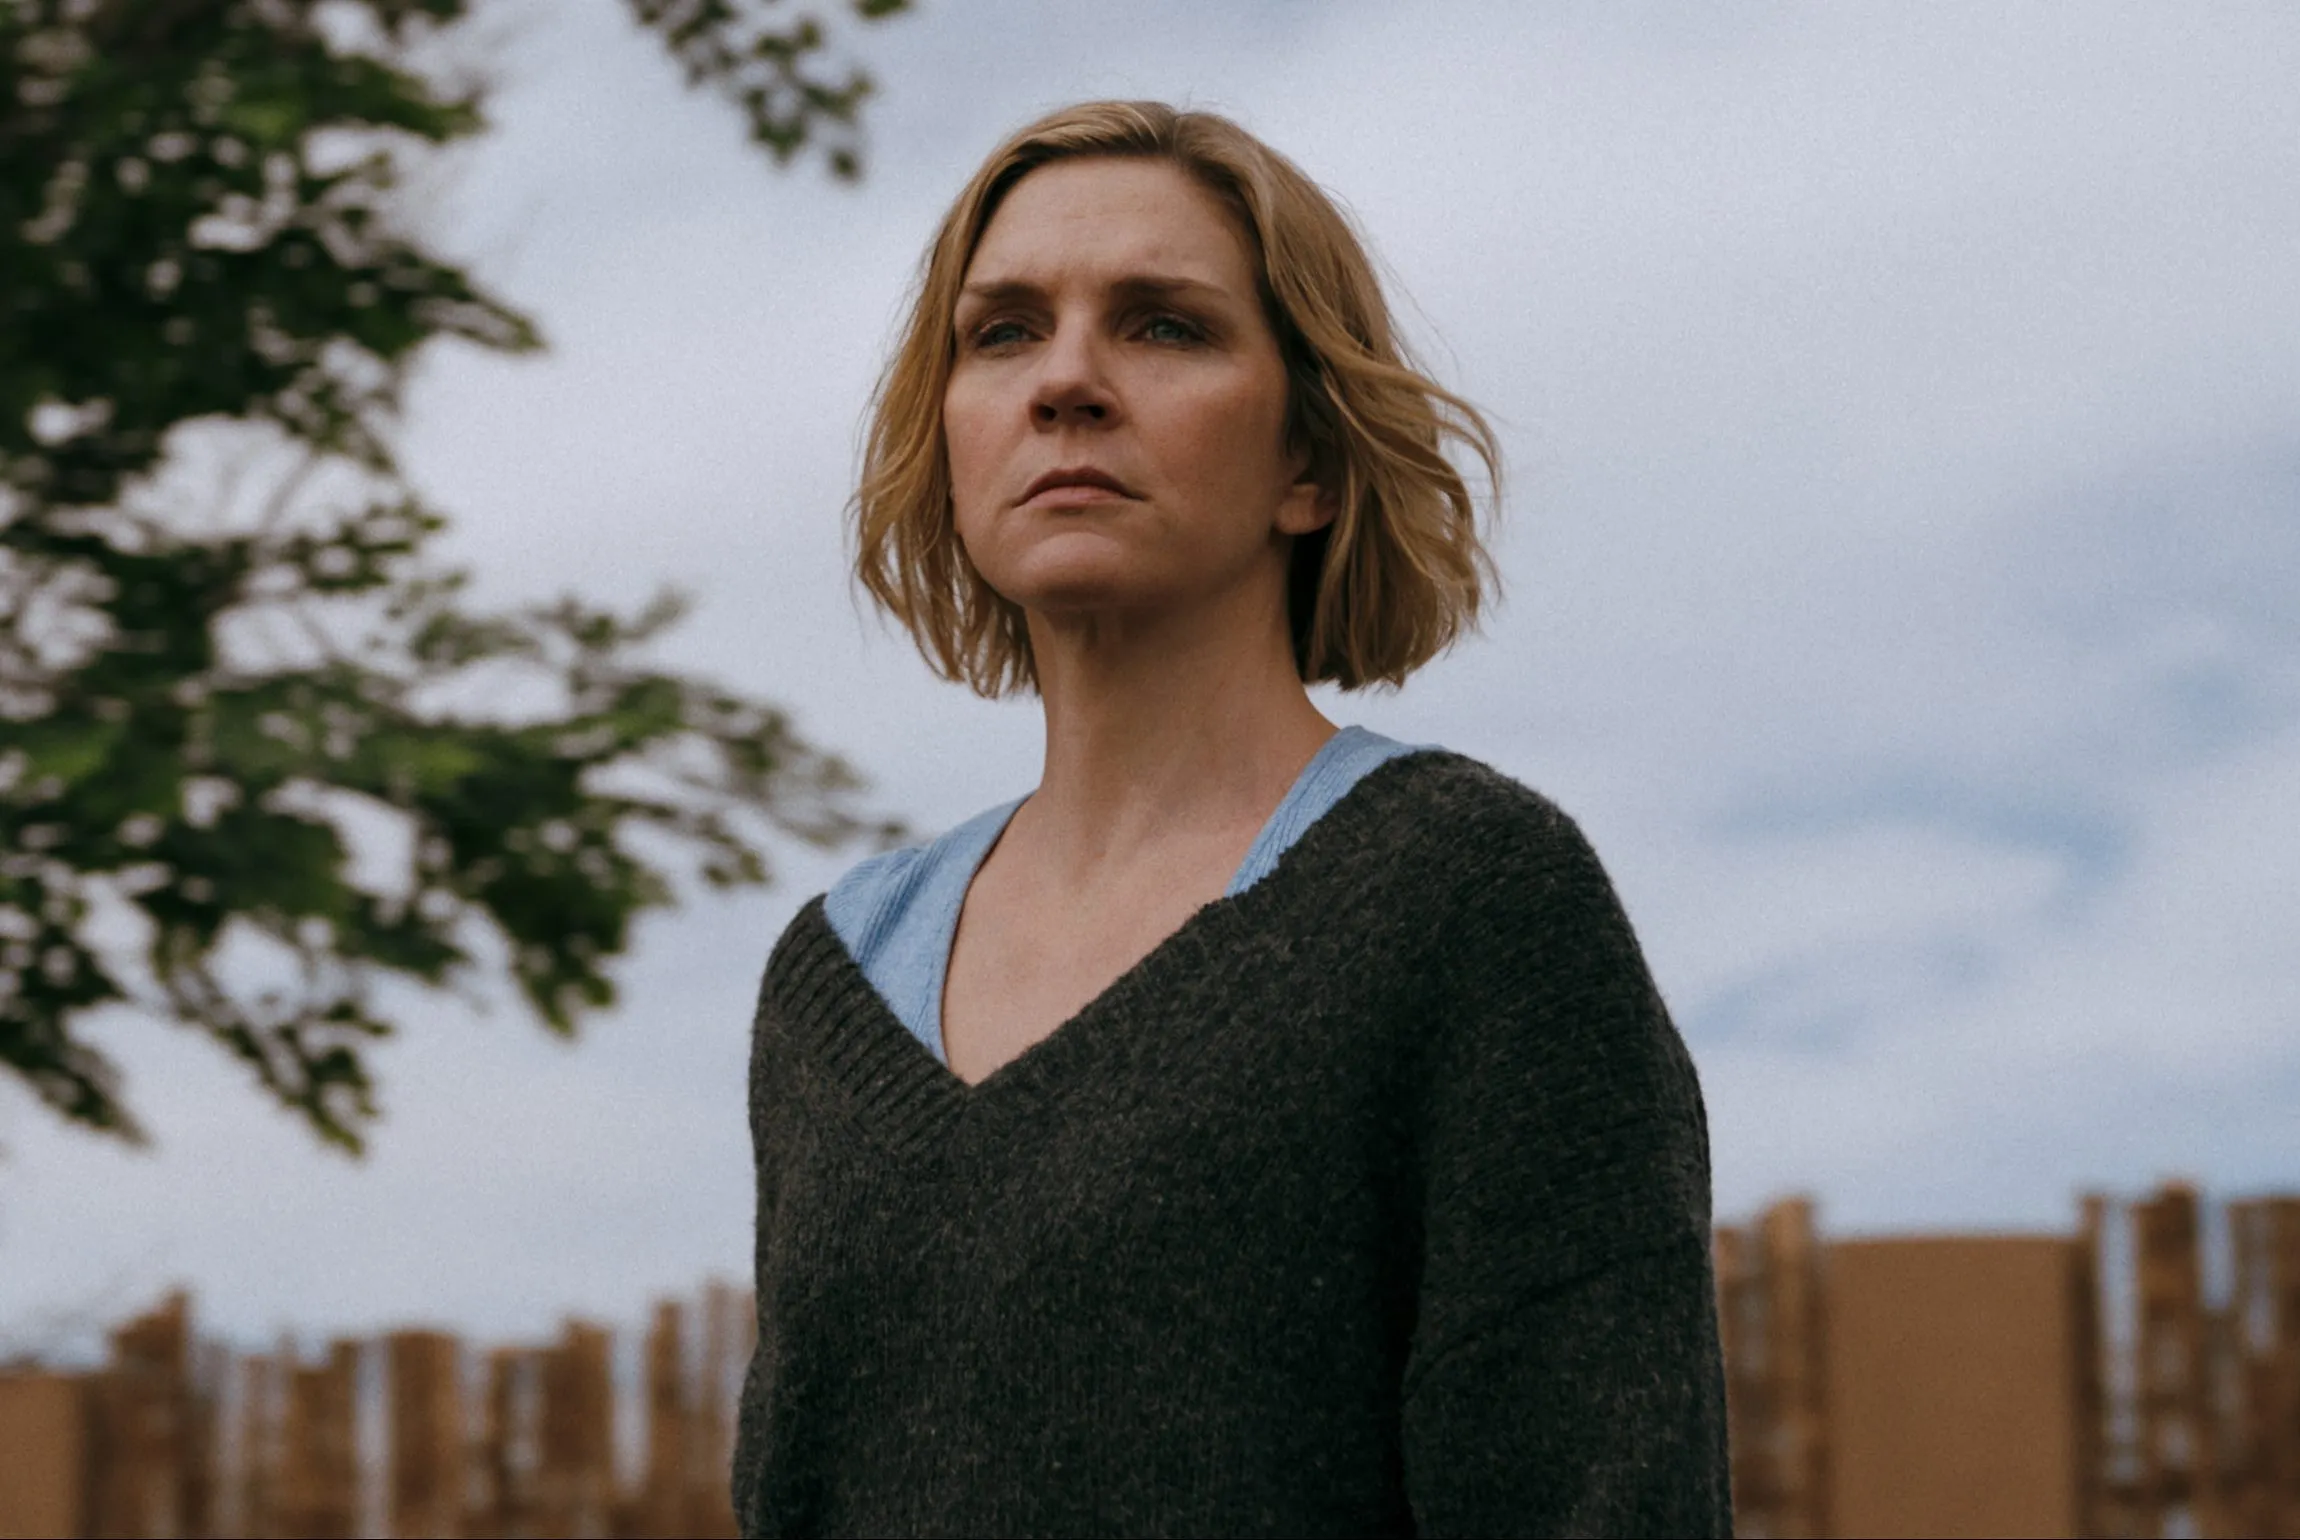
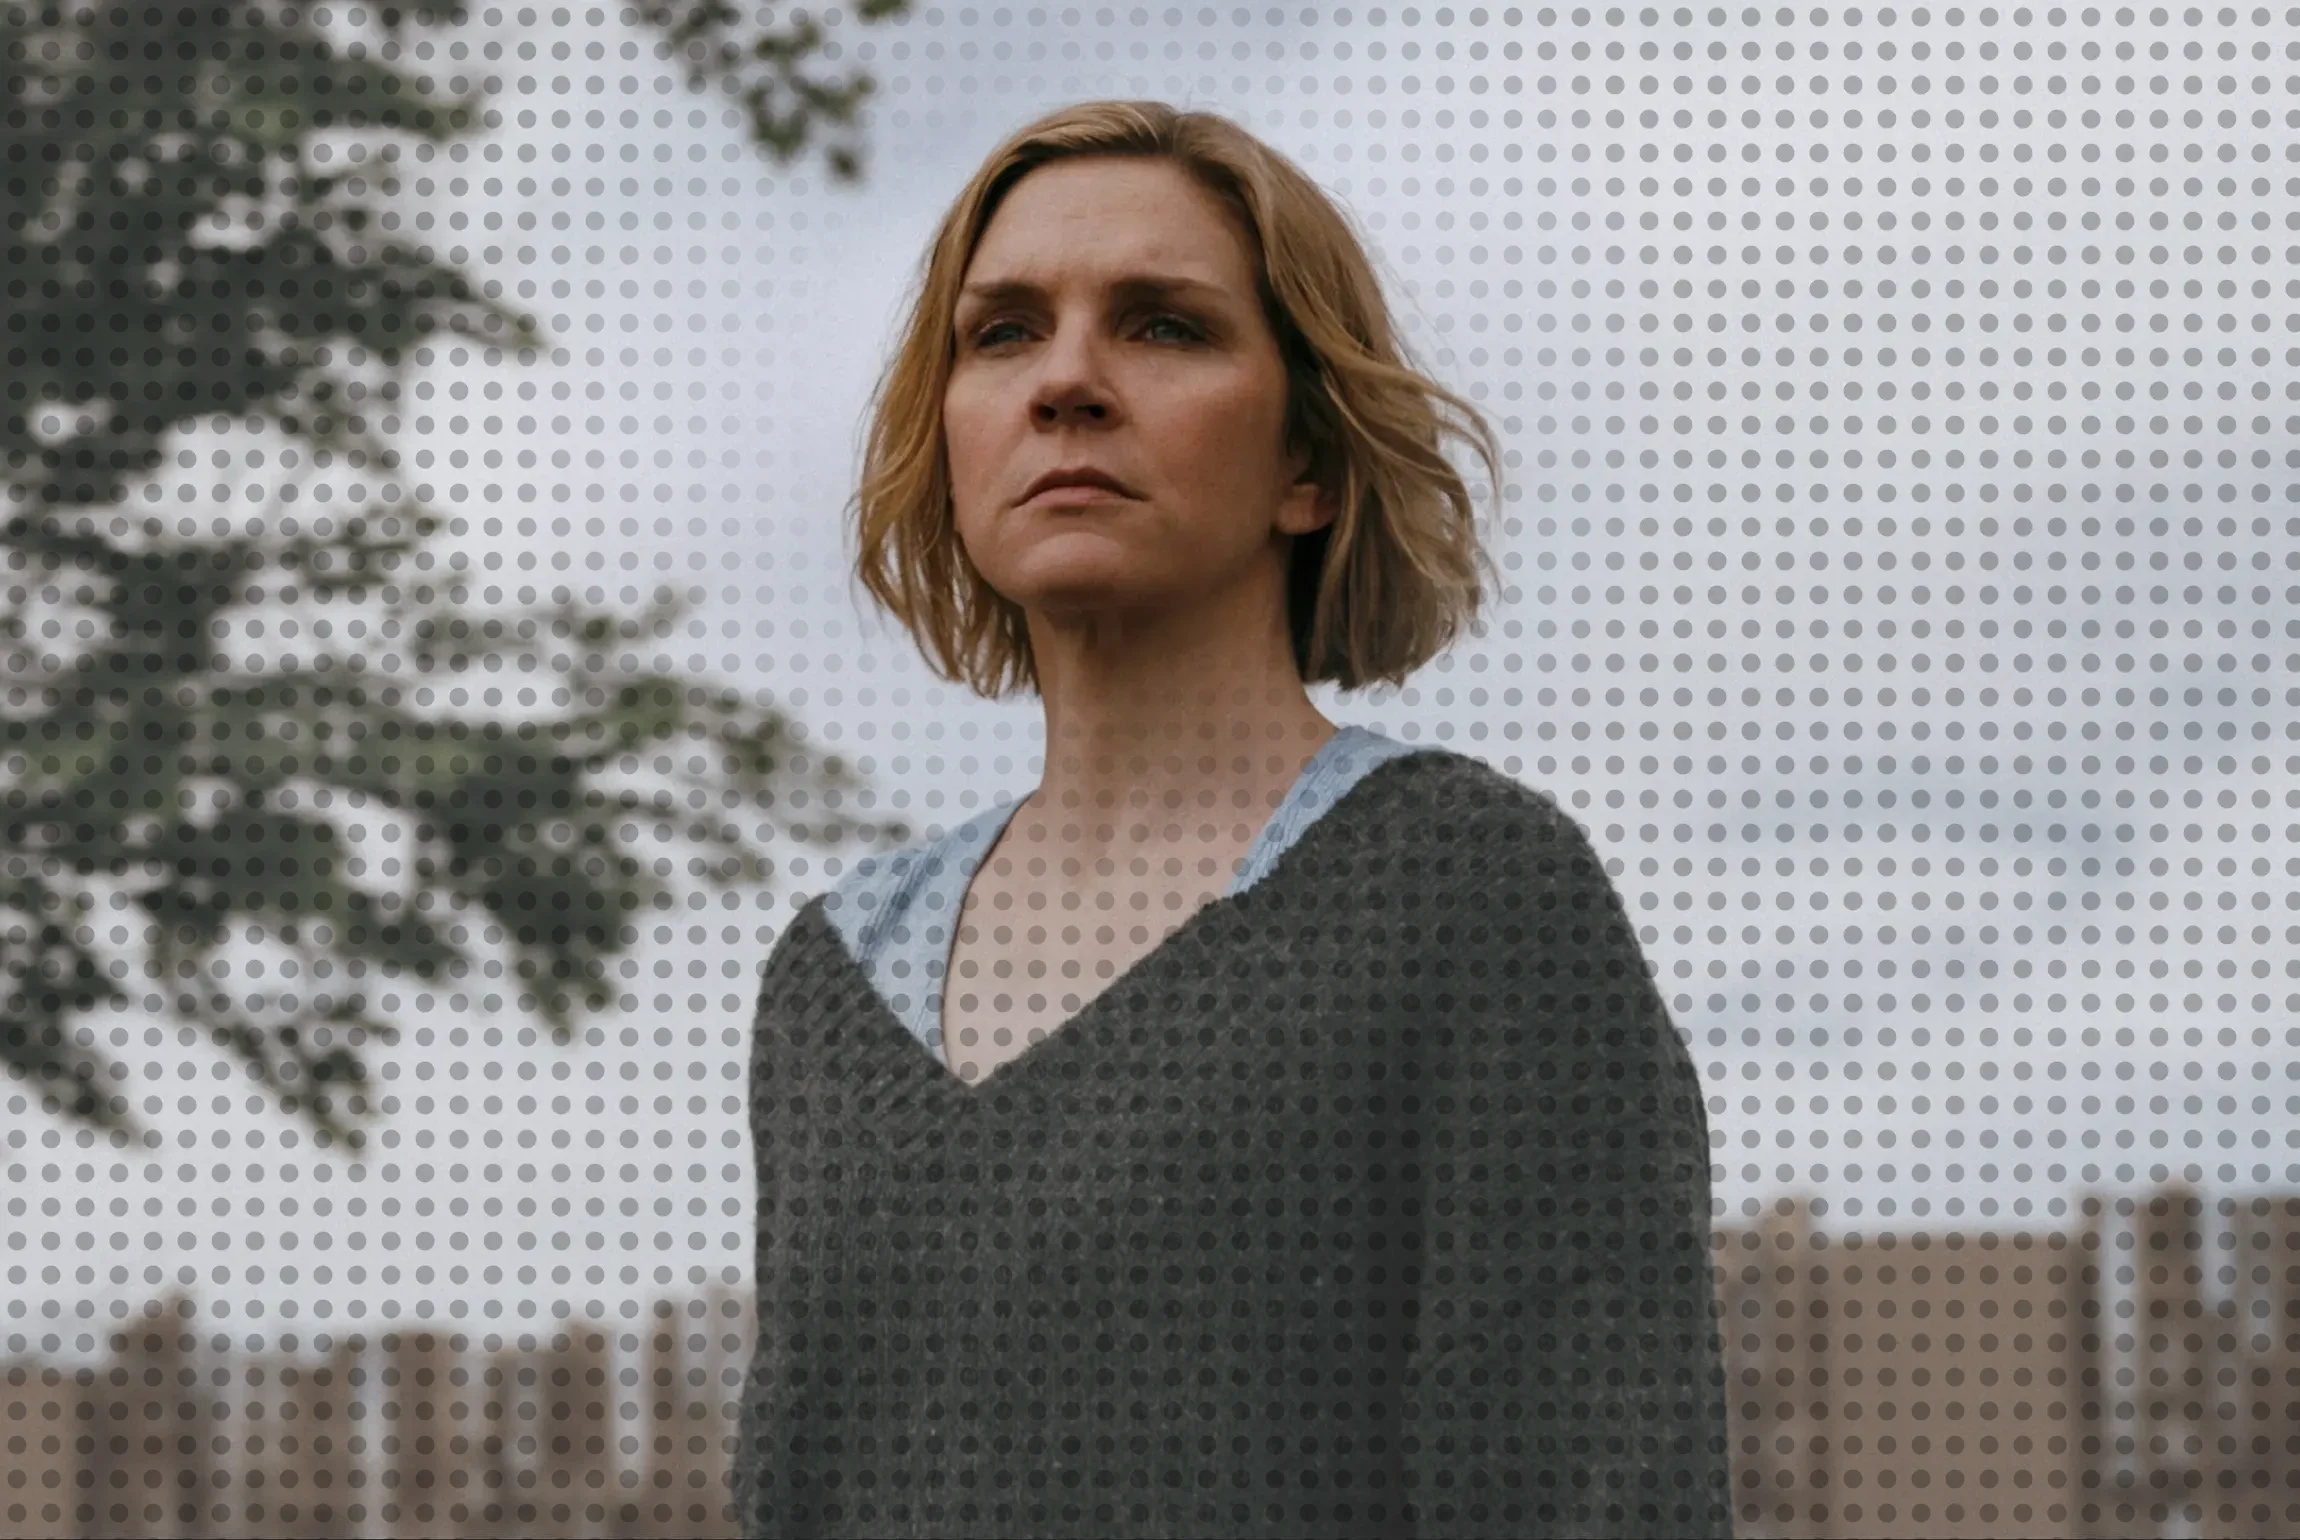
Recrop faces, add halftone magazine treatment, redesign hover state
Sam Nivola and Kevin O'Leary tiles are recropped to squares centered on
their faces. The Pluribus, Kevin O'Leary, and Kanye photos get a print-
style treatment: background desaturated, lightened, and overlaid with a
halftone dot pattern while a radial mask keeps the face untouched.

Tile hover redesigned to match the theme: the headline now appears as
tilted yellow highlighter strips (blue type, each wrapped line its own
strip) with a dashed cyan "click to read" Courier chip, and the overlay
zooms in slightly on reveal.

diff --git a/src/css/style.css b/src/css/style.css
@@ -216,7 +216,7 @@ a {
 }
 
 .article-card:hover .article-thumb {
-  opacity: 0.22;
+  opacity: 0.4;
 }
 
 .article-overlay {
@@ -227,23 +227,48 @@ a {
   align-items: center;
   justify-content: center;
   text-align: center;
-  padding: 1.1rem;
+  padding: 0.9rem;
+  overflow: hidden;
   opacity: 0;
-  transition: opacity 0.25s ease;
+  transform: scale(1.06);
+  transition: opacity 0.22s ease, transform 0.22s ease;
 }
 
 .article-card:hover .article-overlay {
   opacity: 1;
+  transform: scale(1);
+}
+
+.article-title-wrap {
+  display: block;
+  transform: rotate(-2.5deg);
 }
 
 .article-title {
+  display: inline;
+  background: var(--yellow);
+  color: var(--blue);
+  box-decoration-break: clone;
+  -webkit-box-decoration-break: clone;
+  padding: 3px 9px;
   font-size: 0.72rem;
   font-weight: bold;
-  line-height: 1.45;
-  display: -webkit-box;
-  -webkit-line-clamp: 9;
-  -webkit-box-orient: vertical;
-  overflow: hidden;
+  line-height: 2.1;
+}
+
+.article-cta {
+  margin-top: 16px;
+  display: inline-block;
+  font-family: "Courier New", monospace;
+  font-size: 11px;
+  font-weight: bold;
+  letter-spacing: 1.5px;
+  text-transform: uppercase;
+  color: var(--cyan);
+  background: var(--black);
+  border: 2px dashed var(--cyan);
+  padding: 4px 12px;
+  transform: rotate(1.5deg);
 }
 
 /* ---- cover story sticker ---- */

diff --git a/src/index.md b/src/index.md
@@ -18,7 +18,8 @@ title: Home
   <a class="article-card" href="{{ article.data.url }}" target="_blank" rel="noopener">
     <img src="{{ article.data.image }}" alt="" class="article-thumb">
     <span class="article-overlay">
-      <span class="article-title">{{ article.data.title }}</span>
+      <span class="article-title-wrap"><span class="article-title">{{ article.data.title }}</span></span>
+      <span class="article-cta">&#10038; click to read &#10038;</span>
     </span>
     {% if article.data.cover %}<span class="cover-sticker"><img src="{{ article.data.cover }}" alt="Magazine cover"><span>Cover Story</span></span>{% endif %}
   </a>
